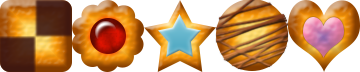
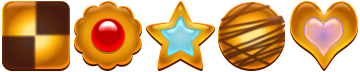
クッキー画像を差し替えた

diff --git a/Classes/Cookie.cpp b/Classes/Cookie.cpp
@@ -33,7 +33,7 @@ bool Cookie::init()
     _cookieShape = static_cast<Cookie::Shape>(shape);
     
     // クッキーの形を元にSpriteを初期化
-    if (!Sprite::initWithFile("blocks.png", Rect(Cookie::getSize() * shape,
+    if (!Sprite::initWithFile("cookies.png", Rect(Cookie::getSize() * shape,
                                                  0,
                                                  Cookie::getSize(),
                                                  Cookie::getSize()))) {
